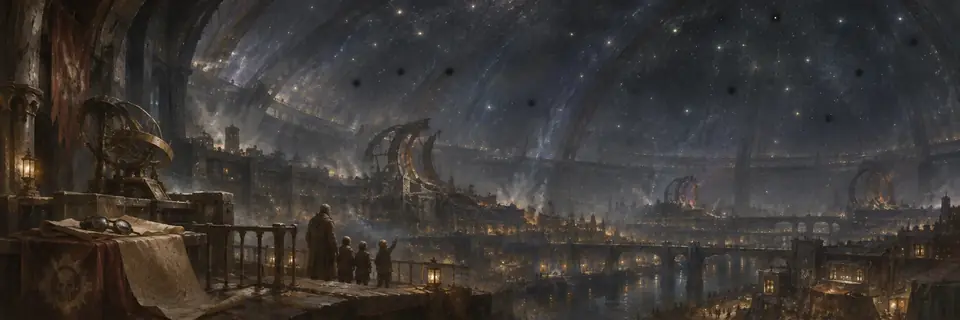
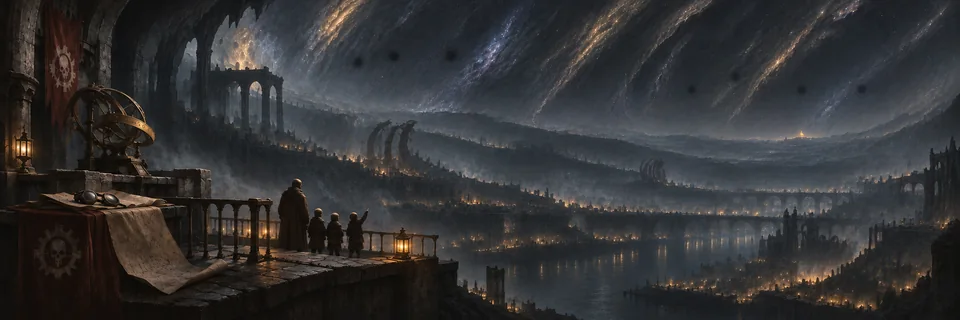
Move updated Siofra star dome panorama to residence chapter opening

diff --git a/severed-ember/index.html b/severed-ember/index.html
@@ -733,7 +733,7 @@ M42的监听簿里，十三秒的引力脉冲仍在。</p>
 </section>
 <section class="view" id="view-places"><div class="subhero cornered"><div class="sub-img" style="background-image:url('assets/chapter-art/02-siofra.webp')"></div><div class="sub-shade"></div><div class="sub-content"><div class="eyebrow">SIOFRA · BASES & FLEET</div><h1>希芙拉与舰船</h1><p>希芙拉的黑河、断桥、金穹与矿井设施构成战团的地下驻地；余烬号停泊于高轨道暗面。</p><a class="btn strong" href="#codex-v02">希芙拉卷宗</a></div></div><nav class="codex-jumps" aria-label="本卷目录"><a href="#codex-v02-h-4-2">希芙拉</a><a href="#codex-v02-h-4-3">环区与居民</a><a href="#codex-v02-h-4-4">金穹与石廊</a><a href="#codex-v02-postwar">战后的石廊</a><a href="#codex-v02-h-4-5">余烬号</a><a href="#codex-v02-h-4-6">辅助舰船</a></nav>
 <section class="lore-volume" id="codex-v02" data-integrated-volume="02"><div class="lore-volume-title"><span>卷 02 · 希芙拉</span><a href="#reader">目录</a></div><article class="lore-paper"><div class="codex-body lore-prose"><h3 id="codex-v02-h-3-1">二、驻地</h3>
-<figure class="archive-plate chapter-context-art" data-approved-art="20261115-siofra-purple-landscape"><a href="assets/editorial-20261115/02-siofra-purple-landscape-20261115.webp" target="_blank" rel="noopener noreferrer" aria-label="查看希芙拉紫色地下地貌全景"><img src="assets/editorial-20261115/02-siofra-purple-landscape-20261115.webp" width="2172" height="724" alt="希芙拉地下世界的宏大紫灰色岩石盆地、黑河、瀑布与紫晶矿脉，自然深渊中悬浮着微弱的蓝紫色伪星" loading="lazy" decoding="async" style="display:block;width:100%;height:auto;object-fit:contain" srcset="assets/editorial-20261115/02-siofra-purple-landscape-20261115-mobile.webp 960w, assets/editorial-20261115/02-siofra-purple-landscape-20261115.webp 1800w" sizes="(max-width:800px) 70vw, (max-width:1200px) 76vw, 60vw"></a><figcaption><strong>希芙拉 · 紫晶深渊地貌</strong></figcaption></figure>
+<figure class="archive-plate chapter-context-art" data-approved-art="20261116-siofra-star-dome"><a href="assets/overview/siofra-starry-dome-underground-20261116.webp?v=20261128e" target="_blank" rel="noopener noreferrer" aria-label="查看希芙拉星穹与地下环区全景"><img src="assets/overview/siofra-starry-dome-underground-20261116.webp?v=20261128e" alt="希芙拉地下伪星穹顶、黑河与层叠环区，四名观星者立于石廊高台，远处金穹隐约可见" width="2172" height="724" loading="lazy" decoding="async" style="display:block;width:100%;height:auto;object-fit:contain" srcset="assets/overview/siofra-starry-dome-underground-20261116-mobile.webp?v=20261128e 960w, assets/overview/siofra-starry-dome-underground-20261116.webp?v=20261128e 2172w" sizes="(max-width:800px) 70vw, (max-width:1200px) 76vw, 60vw"></a><figcaption><strong>希芙拉星穹 · 地下环区全景</strong></figcaption></figure>
 <h4 id="codex-v02-h-4-2">希芙拉</h4>
 <p>希芙拉并非废星本身。矿井最深的升降梯穿过一道无法绘入地质剖面的界面，抵达废星地表之下的<strong>地底亚空间投影</strong>。最后一块标明矿层年代的刻牌留在井口；再往下，测绘员只能用桥梁、断柱与水位给自己的地图定向。</p>
 <p>洞穴不见边缘。穹顶闪烁着无数暗淡的伪星，冷蓝色的光落在断桥上。最古老的观测簿把它们记作卡利班毁灭时散落的灵能碎片；后来的测绘员仍照着这份簿册誊写。</p>
@@ -742,7 +742,6 @@ M42的监听簿里，十三秒的引力脉冲仍在。</p>
 <p>“上方有星。脚下有河。桥在我们走到以前已经断了。”</p>
 <p>图中七颗伪星被圈起。第二日的观测纸上，它们换了位置。</p>
 <p>修道院的承重柱与旧堡垒地基压在深渊之井上方。最早的守望者把这座建筑称作井盖，后来才有了金穹与石廊。从升降井末端通往军事环区的是坡道与桥；旧渠人取水的河岸则在桥基之下。井沿的旧钢梁曾被拉成极细的弧线。值夜者在钢梁上系过十三根短绳；黎明时只剩十二根。</p>
-<figure class="archive-plate chapter-context-art" data-approved-art="20261116-siofra-star-dome"><a href="assets/overview/siofra-starry-dome-underground-20261116.webp" target="_blank" rel="noopener noreferrer" aria-label="查看希芙拉星穹与地下环区全景"><img src="assets/overview/siofra-starry-dome-underground-20261116.webp" alt="希芙拉地下伪星穹顶、断桥与黑河环区全景，四名观察者立于近景高台" width="2048" height="682" loading="lazy" decoding="async" style="display:block;width:100%;height:auto;object-fit:contain" srcset="assets/overview/siofra-starry-dome-underground-20261116-mobile.webp 960w, assets/overview/siofra-starry-dome-underground-20261116.webp 1800w" sizes="(max-width:800px) 70vw, (max-width:1200px) 76vw, 60vw"></a><figcaption><strong>希芙拉星穹 · 地下环区全景</strong></figcaption></figure>
 <p>567.M34，加勒隆将扩张的裂口暂时压回旧刻度。此后守望者每年仍要更换变形的撑梁。修道院逐渐沉降，最深的石柱却始终未卸下负荷。</p>
 <p><strong>〔无铭阶墙〕</strong></p>
 <p>下层的石阶比上层更少磨损。第一次拆柱后，三根测针同时折断。此后，施工记录在这一页中断。</p>
